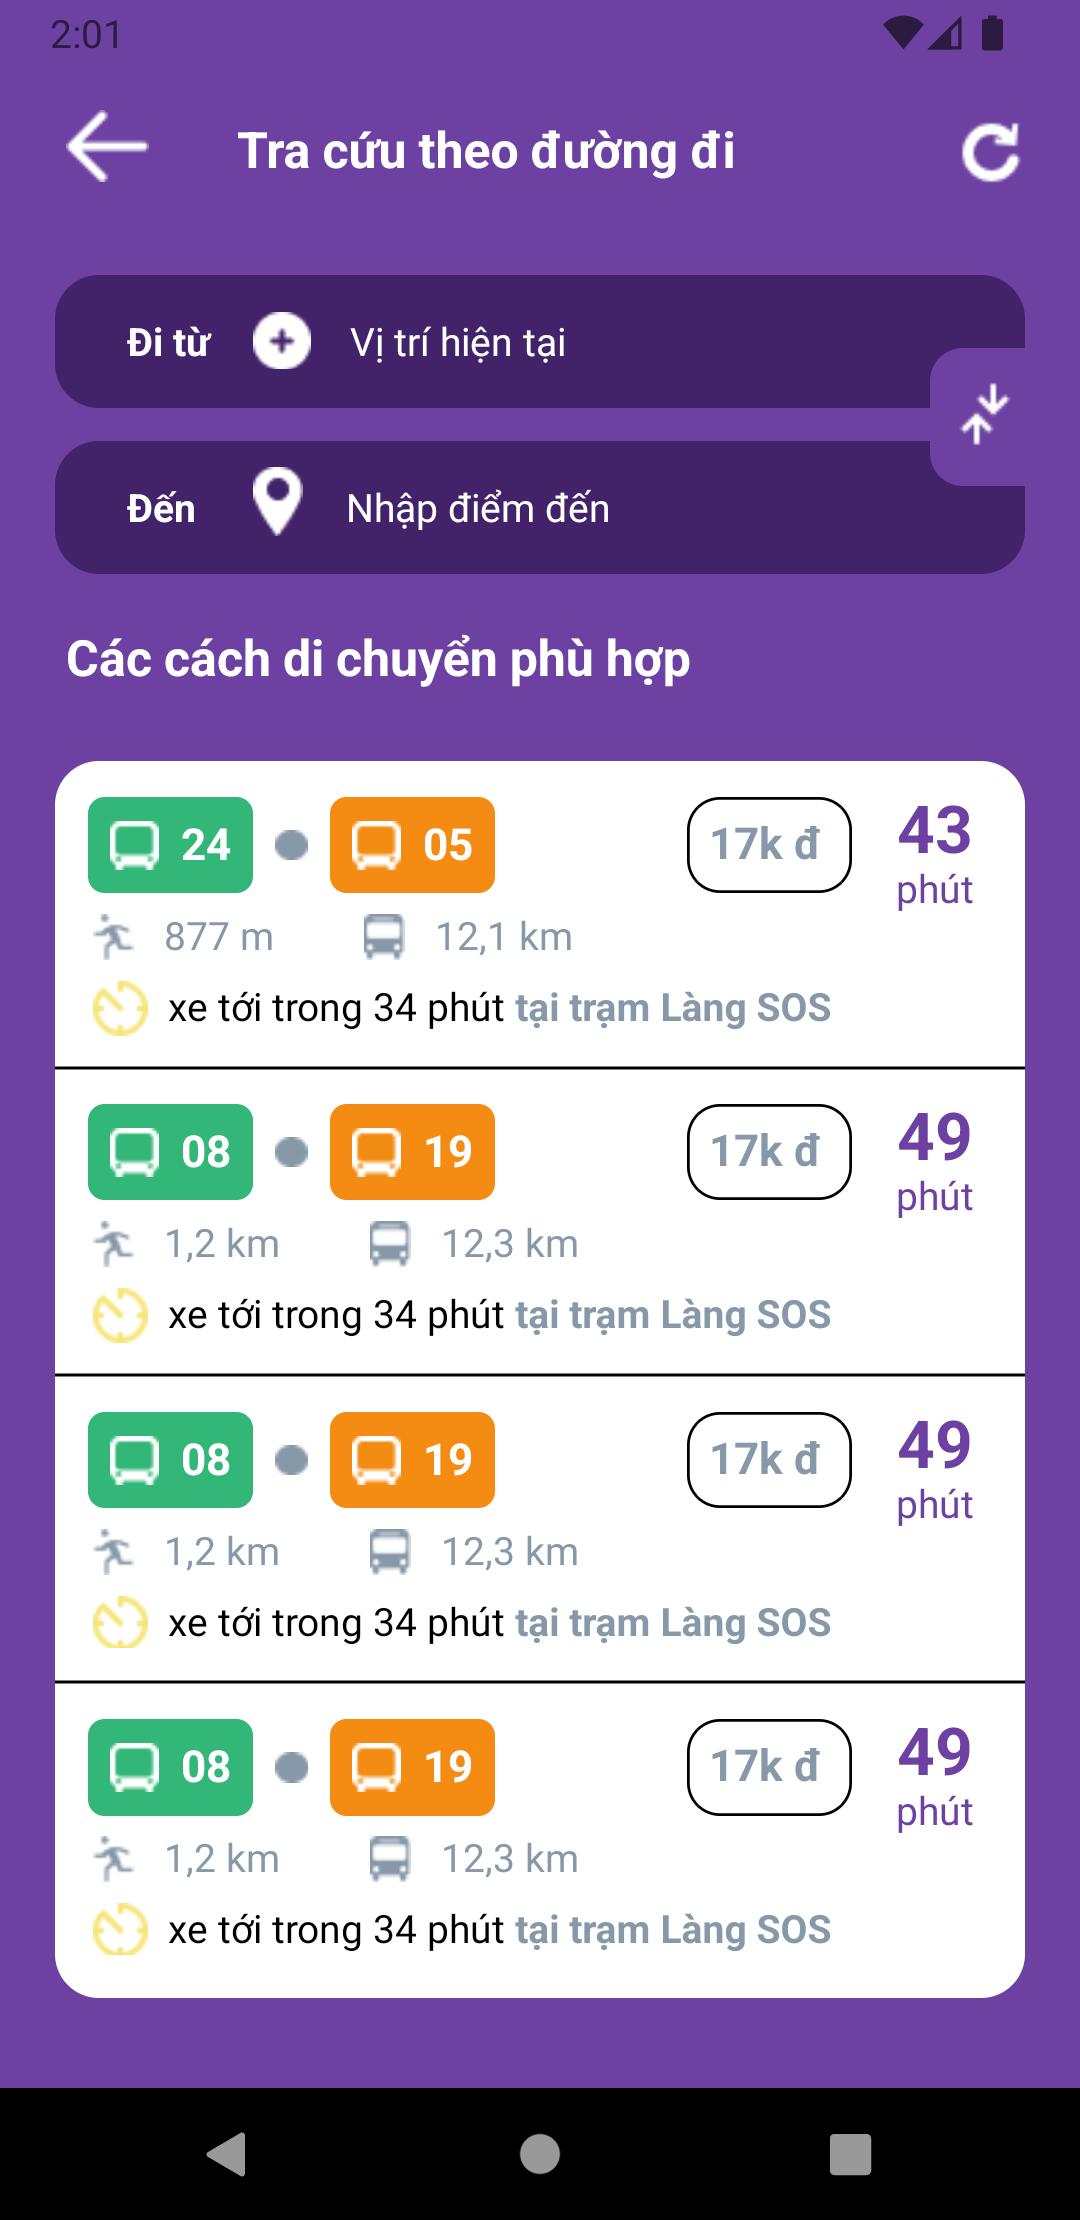
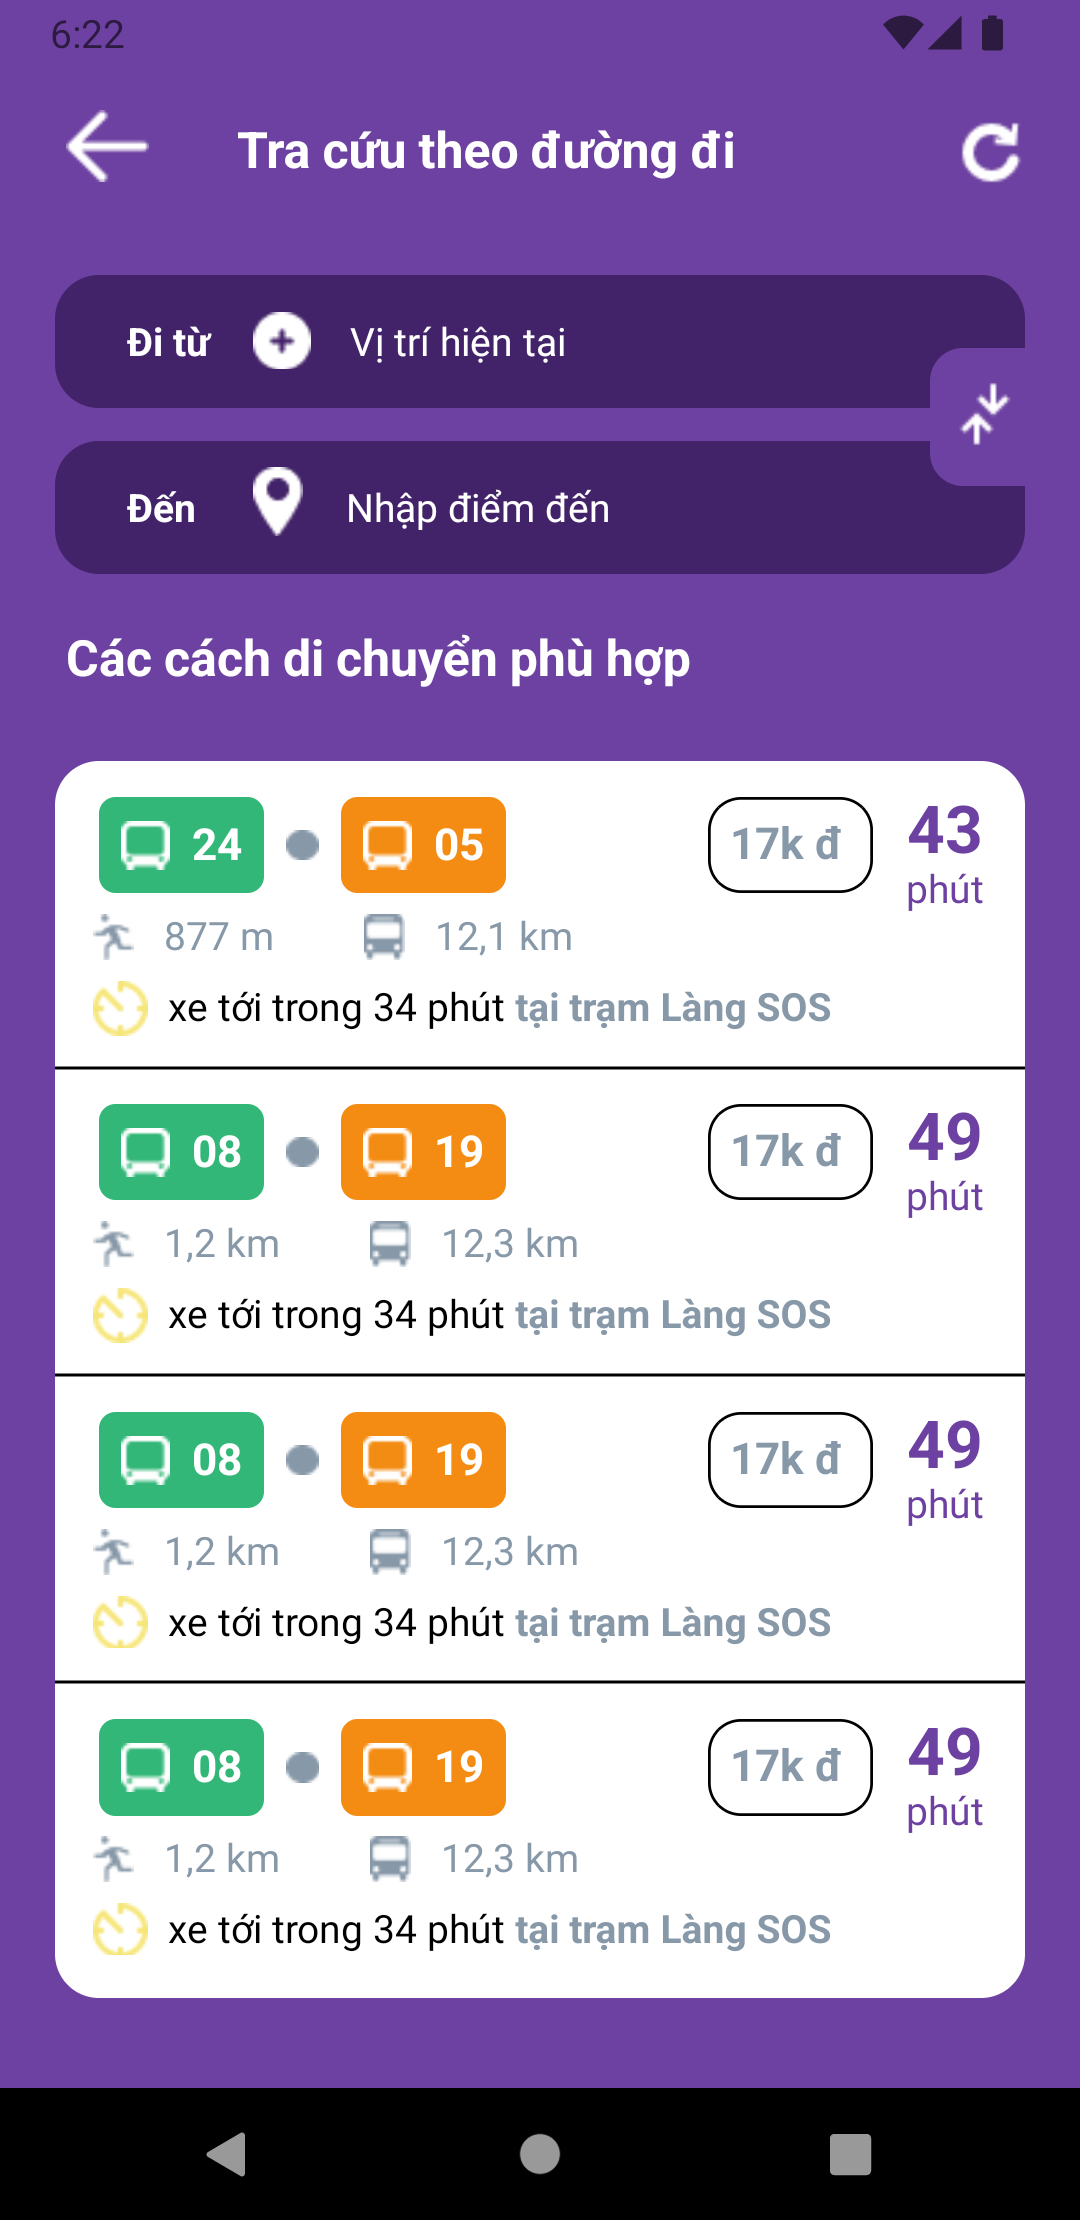
Update RouteRsScr Styling

diff --git a/screens/RouteRsScr/index.jsx b/screens/RouteRsScr/index.jsx
@@ -58,7 +58,7 @@ export default function ({ navigation }) {
         <TouchableOpacity onPress={() => navigation.navigate("Gooo")}>
           {/*First Row*/}
           <Text>
-            <TouchableOpacity className="pt-2 pl-3" disabled={true}>
+            <TouchableOpacity className="pt-2 pl-4" disabled={true}>
               <Text className="bg-dark-green rounded-md text-white text-base font-bold w-[60px] h-[35px] pl-2 pt-1">
                 <Image source={require('./img/G47.png')} className="ml-1" />
                 &nbsp;&nbsp;24
@@ -76,7 +76,7 @@ export default function ({ navigation }) {
               </Text>
             </TouchableOpacity>
 
-            &nbsp;&nbsp;&nbsp;&nbsp;&nbsp;&nbsp;&nbsp;&nbsp;&nbsp;&nbsp;&nbsp;&nbsp;&nbsp;&nbsp;&nbsp;&nbsp;&nbsp;&nbsp;&nbsp;
+            &nbsp;&nbsp;&nbsp;&nbsp;&nbsp;&nbsp;&nbsp;&nbsp;&nbsp;&nbsp;&nbsp;&nbsp;&nbsp;&nbsp;&nbsp;&nbsp;&nbsp;&nbsp;
             <TouchableOpacity className="pt-2 pl-2" disabled={true}>
               <Text className="bg-white border-black border-solid border rounded-xl text-dark-gray text-base font-bold w-[60px] h-[35px] pl-2 pt-1">
                 17k đ
@@ -122,7 +122,7 @@ export default function ({ navigation }) {
         <TouchableOpacity onPress={() => navigation.navigate("Gooo")}>
           {/*First Row*/}
           <Text>
-            <TouchableOpacity className="pt-2 pl-3" disabled={true}>
+            <TouchableOpacity className="pt-2 pl-4" disabled={true}>
               <Text className="bg-dark-green rounded-md text-white text-base font-bold w-[60px] h-[35px] pl-2 pt-1">
                 <Image source={require('./img/G47.png')} className="ml-1" />
                 &nbsp;&nbsp;08
@@ -140,7 +140,7 @@ export default function ({ navigation }) {
               </Text>
             </TouchableOpacity>
 
-            &nbsp;&nbsp;&nbsp;&nbsp;&nbsp;&nbsp;&nbsp;&nbsp;&nbsp;&nbsp;&nbsp;&nbsp;&nbsp;&nbsp;&nbsp;&nbsp;&nbsp;&nbsp;&nbsp;
+            &nbsp;&nbsp;&nbsp;&nbsp;&nbsp;&nbsp;&nbsp;&nbsp;&nbsp;&nbsp;&nbsp;&nbsp;&nbsp;&nbsp;&nbsp;&nbsp;&nbsp;&nbsp;
             <TouchableOpacity className="pt-2 pl-2" disabled={true}>
               <Text className="bg-white border-black border-solid border rounded-xl text-dark-gray text-base font-bold w-[60px] h-[35px] pl-2 pt-1">
                 17k đ
@@ -186,7 +186,7 @@ export default function ({ navigation }) {
         <TouchableOpacity onPress={() => navigation.navigate("Gooo")}>
           {/*First Row*/}
           <Text>
-            <TouchableOpacity className="pt-2 pl-3" disabled={true}>
+            <TouchableOpacity className="pt-2 pl-4" disabled={true}>
               <Text className="bg-dark-green rounded-md text-white text-base font-bold w-[60px] h-[35px] pl-2 pt-1">
                 <Image source={require('./img/G47.png')} className="ml-1" />
                 &nbsp;&nbsp;08
@@ -204,7 +204,7 @@ export default function ({ navigation }) {
               </Text>
             </TouchableOpacity>
 
-            &nbsp;&nbsp;&nbsp;&nbsp;&nbsp;&nbsp;&nbsp;&nbsp;&nbsp;&nbsp;&nbsp;&nbsp;&nbsp;&nbsp;&nbsp;&nbsp;&nbsp;&nbsp;&nbsp;
+            &nbsp;&nbsp;&nbsp;&nbsp;&nbsp;&nbsp;&nbsp;&nbsp;&nbsp;&nbsp;&nbsp;&nbsp;&nbsp;&nbsp;&nbsp;&nbsp;&nbsp;&nbsp;
             <TouchableOpacity className="pt-2 pl-2" disabled={true}>
               <Text className="bg-white border-black border-solid border rounded-xl text-dark-gray text-base font-bold w-[60px] h-[35px] pl-2 pt-1">
                 17k đ
@@ -250,7 +250,7 @@ export default function ({ navigation }) {
         <TouchableOpacity onPress={() => navigation.navigate("Gooo")}>
           {/*First Row*/}
           <Text>
-            <TouchableOpacity className="pt-2 pl-3" disabled={true}>
+            <TouchableOpacity className="pt-2 pl-4" disabled={true}>
               <Text className="bg-dark-green rounded-md text-white text-base font-bold w-[60px] h-[35px] pl-2 pt-1">
                 <Image source={require('./img/G47.png')} className="ml-1" />
                 &nbsp;&nbsp;08
@@ -268,7 +268,7 @@ export default function ({ navigation }) {
               </Text>
             </TouchableOpacity>
 
-            &nbsp;&nbsp;&nbsp;&nbsp;&nbsp;&nbsp;&nbsp;&nbsp;&nbsp;&nbsp;&nbsp;&nbsp;&nbsp;&nbsp;&nbsp;&nbsp;&nbsp;&nbsp;&nbsp;
+            &nbsp;&nbsp;&nbsp;&nbsp;&nbsp;&nbsp;&nbsp;&nbsp;&nbsp;&nbsp;&nbsp;&nbsp;&nbsp;&nbsp;&nbsp;&nbsp;&nbsp;&nbsp;
             <TouchableOpacity className="pt-2 pl-2" disabled={true}>
               <Text className="bg-white border-black border-solid border rounded-xl text-dark-gray text-base font-bold w-[60px] h-[35px] pl-2 pt-1">
                 17k đ
